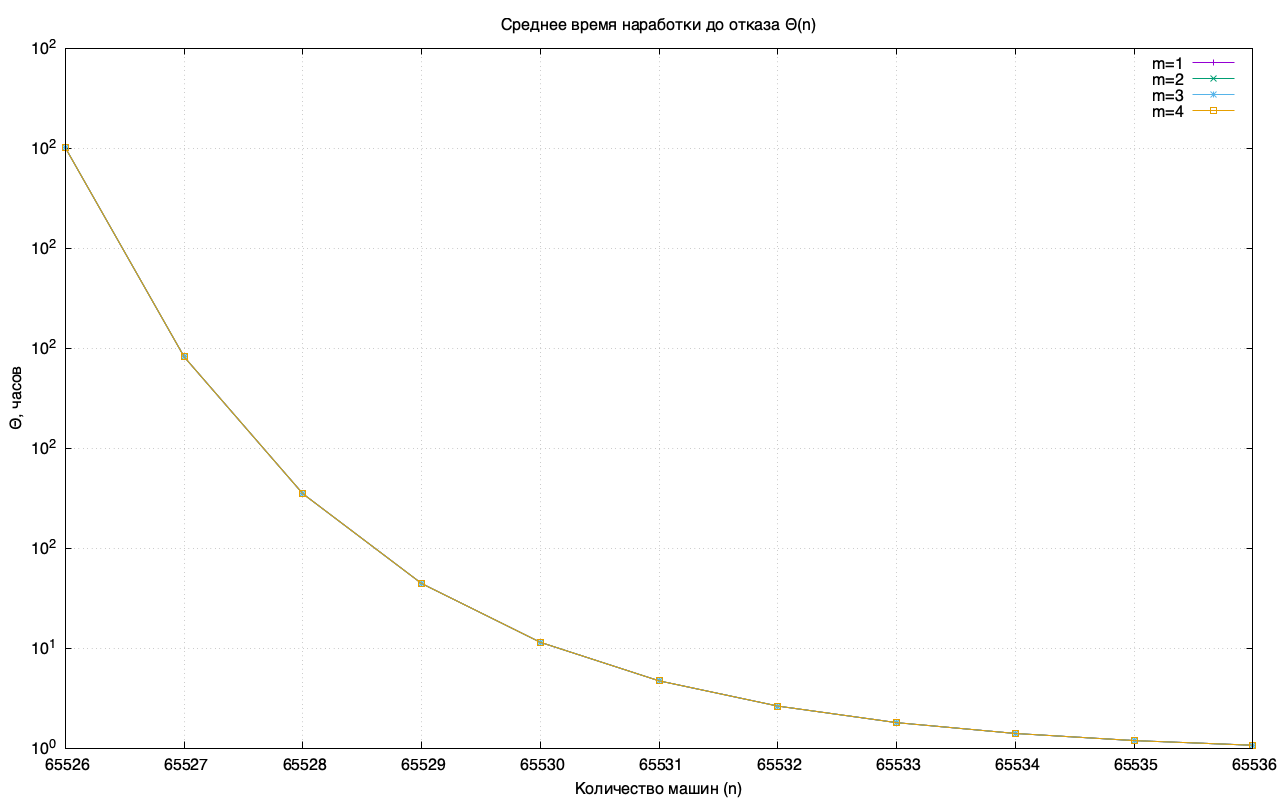
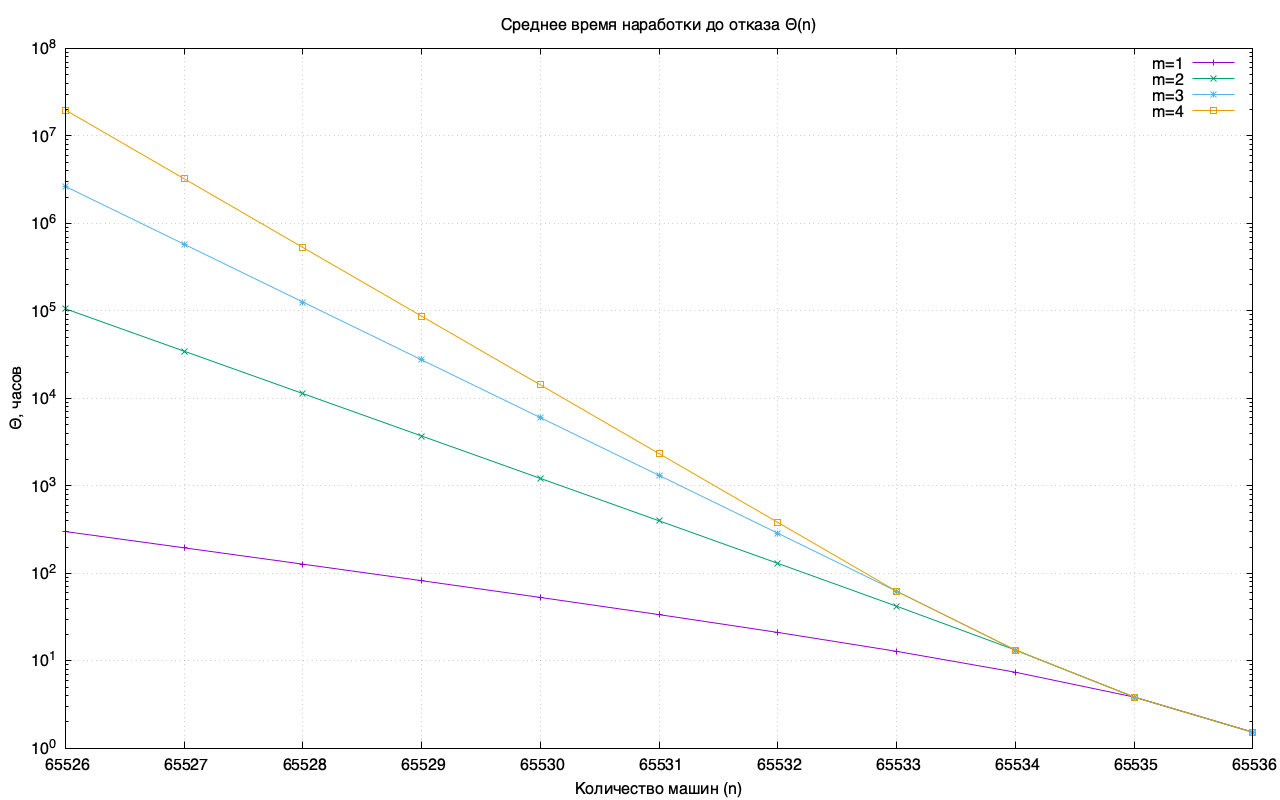
Fix calculations of theta, plot 1_3

diff --git a/spring/src/1_calculations.cpp b/spring/src/1_calculations.cpp
@@ -6,12 +6,16 @@
 using namespace std;
 
 double calculateTheta(int N, double lambda, int m, double mu, int n1) {
+    auto mu_l = [N, m, mu](int l) -> double {
+        return (l >= N - m && l <= N) ? (N - l) * mu : m * mu;
+    };
+
     double theta = 0.0;
     if (n1 != N) {
         for (int j = n1 + 1; j <= N; ++j) {
             double product = 1.0;
             for (int l = n1; l < j; ++l) {
-                product *= mu / (l * lambda);
+                product *= mu_l(l) / (l * lambda);
             }
             theta += (1.0 / (j * lambda)) * product;
         }
